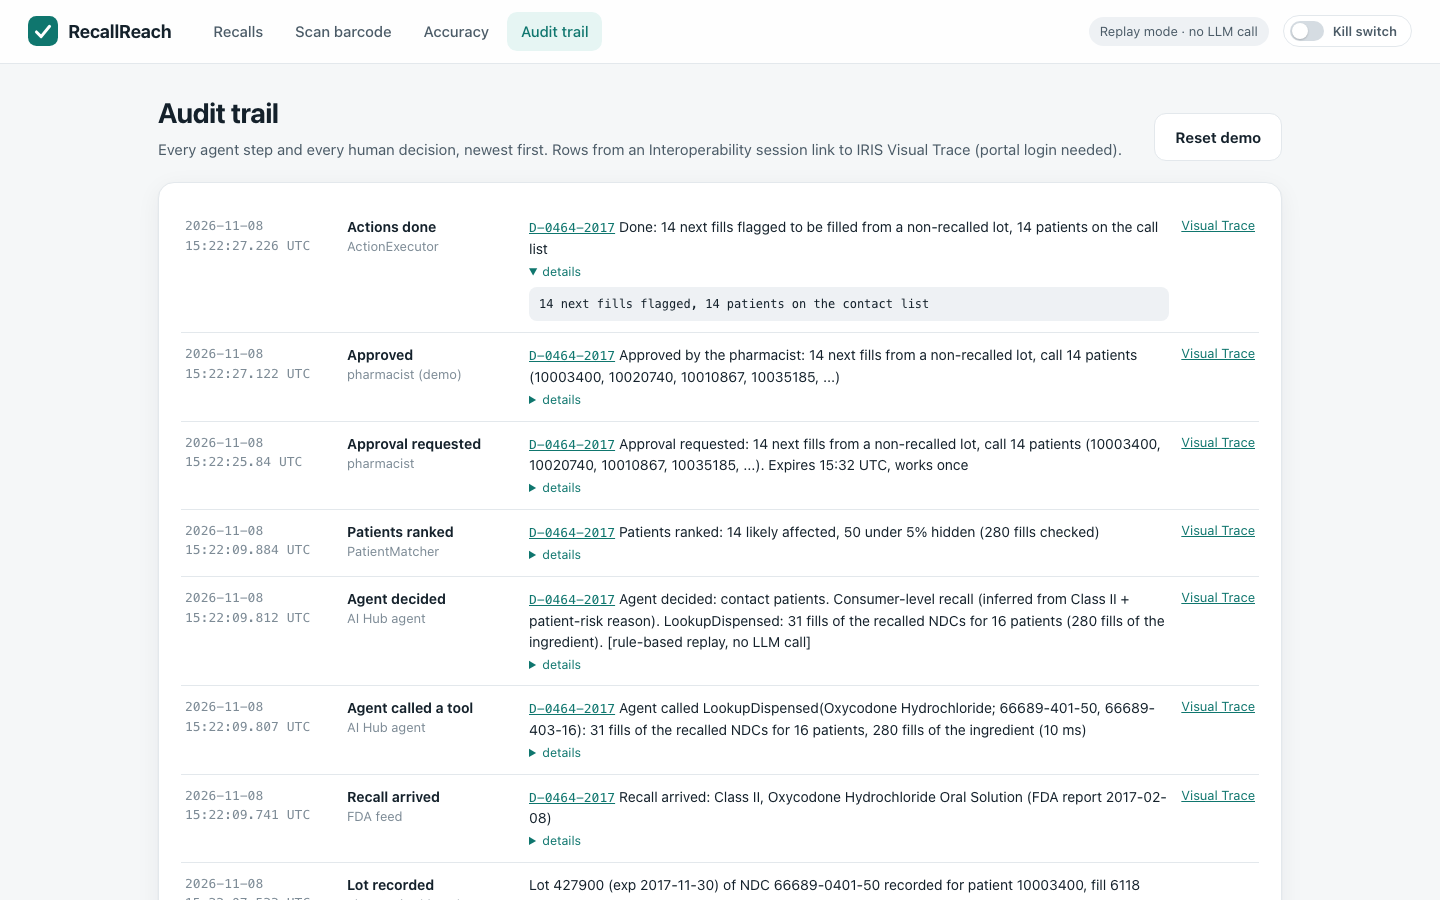
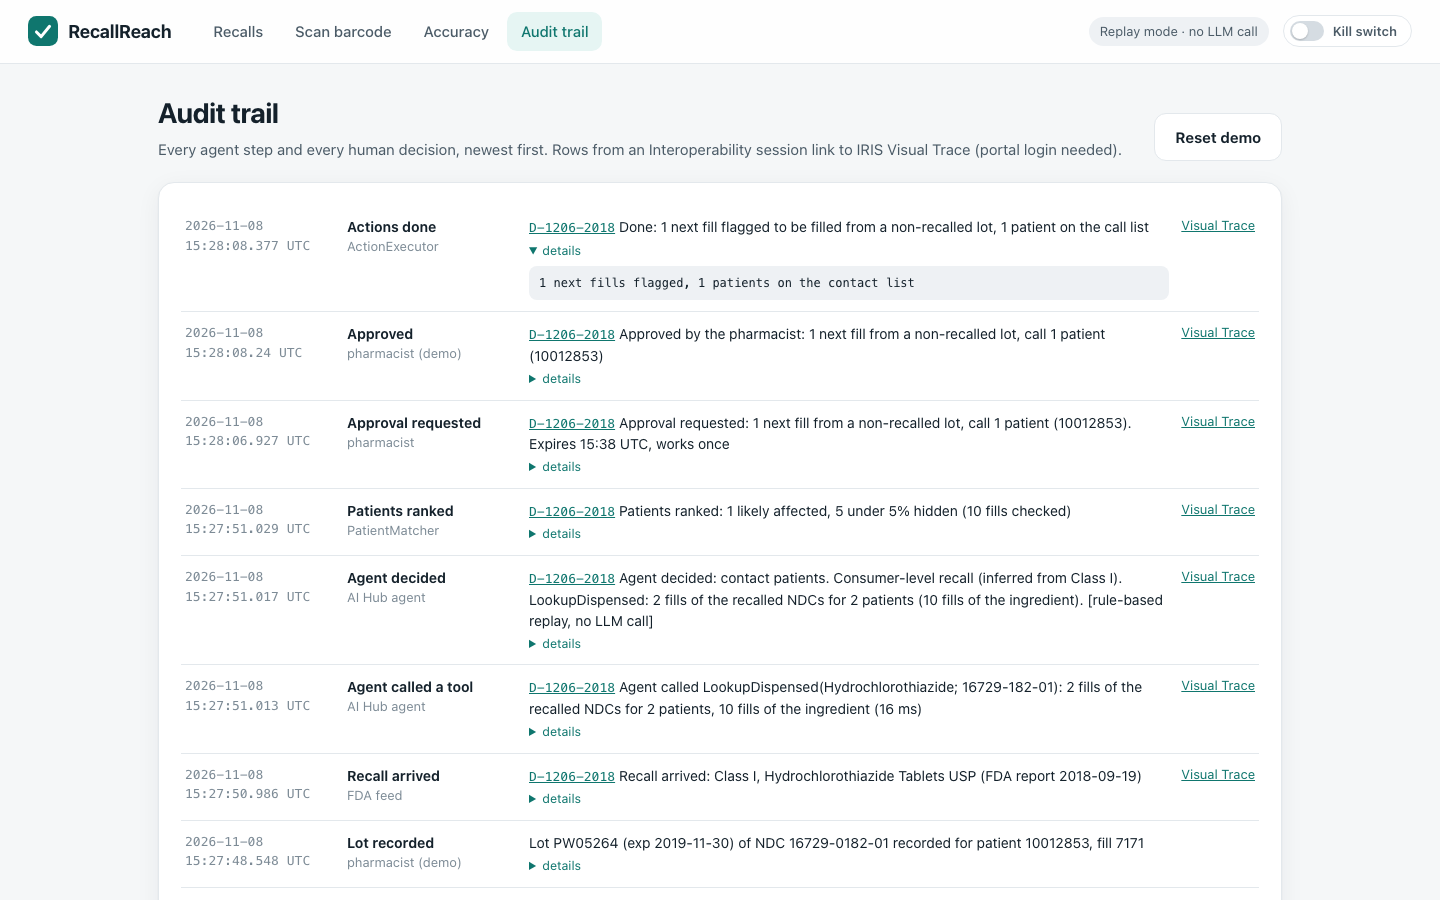
Demo recall: D-1206-2018, Class I mix-up of hydrochlorothiazide tablets
A daily blood-pressure tablet taken at home fits the demo story better than an oral solution.
Sample barcode: lot PW05264 for patient 10012853 (fill 7171). D-0464-2017 moves to history.
README, screenshots, GIF and spin check (20/20) redone.

diff --git a/web/app.js b/web/app.js
@@ -516,7 +516,7 @@
       '<div class="card"><div class="row wrap"><h2 style="margin:0">1. Scan or paste the barcode</h2><span class="spacer"></span>' +
       '<button class="btn ghost" id="cam" hidden>Use camera</button><button class="btn ghost" id="sample">Use a sample barcode</button></div>' +
       '<p class="muted small">Scanners type the barcode like a keyboard. Both "(01)...(17)...(10)...(21)..." and raw strings with the group separator work.</p>' +
-      '<textarea class="scanbox" id="raw" placeholder="(01)00366689401503(17)171130(10)427900(21)..."></textarea>' +
+      '<textarea class="scanbox" id="raw" placeholder="(01)00316729182010(17)191130(10)PW05264(21)..."></textarea>' +
       '<div class="muted small" id="samplenote"></div>' +
       '<video id="vid" playsinline muted style="display:none;width:100%;max-width:420px;border-radius:12px;margin-top:10px"></video>' +
       '<div class="row" style="margin-top:10px"><button class="btn" id="parse">Read barcode</button></div><div id="parsed"></div></div>' +

diff --git a/tools/prepare_data.py b/tools/prepare_data.py
@@ -17,12 +17,13 @@ HERE = os.path.dirname(os.path.abspath(__file__))
 sys.path.insert(0, os.path.join(HERE, "..", "python"))
 from recallreach_core import ndc as ndcmod  # noqa: E402
 
-# first recall of "Simulate new FDA recall": consumer level (contamination), so it goes the patient-contact way
-DEMO_RECALL = "D-0464-2017"
-# the barcode the demo pharmacist scanned when filling patient 10003400 (recalled lot 427900)
-DEMO_SAMPLE = {"ndc11": "66689040150", "lot": "427900", "expiry": "2017-11-30", "dispense_id": 6118, "subject_id": "10003400"}
+# first recall of "Simulate new FDA recall": Class I mix-up of a daily blood-pressure tablet, consumer level,
+# so it goes the patient-contact way
+DEMO_RECALL = "D-1206-2018"
+# the barcode the demo pharmacist scanned when filling patient 10012853 (recalled lot PW05264)
+DEMO_SAMPLE = {"ndc11": "16729018201", "lot": "PW05264", "expiry": "2019-11-30", "dispense_id": 7171, "subject_id": "10012853"}
 # already processed when the demo starts (shown in the inbox as history)
-HISTORY = ["D-0668-2016", "D-1467-2016", "D-0013-2018", "D-1226-2015", "D-1223-2015", "D-0793-2017"]
+HISTORY = ["D-0668-2016", "D-1467-2016", "D-0013-2018", "D-1226-2015", "D-1223-2015", "D-0793-2017", "D-0464-2017"]
 # delivered one by one by "Simulate new FDA recall" (first = the video recall)
 QUEUE = [DEMO_RECALL, "D-1695-2012", "D-0010-2016", "D-0123-2018", "D-1208-2015", "D-0648-2016"]
 

diff --git a/README.md b/README.md
@@ -44,7 +44,7 @@ Then:
 
 ```bash
 git clone https://github.com/jejuolledev/recallreach && cd recallreach
-docker compose up -d --build   # compiles, loads data, runs 6 recalls through the production (about 30 s to 3 min)
+docker compose up -d --build   # compiles, loads data, runs 7 recalls through the production (about 30 s to 3 min)
 # then open http://localhost:52795/recallreach/index.html in a browser
 ```
 
@@ -52,10 +52,10 @@ No login for the app. Management Portal: http://localhost:52795/csp/sys/UtilHome
 
 ## Try it
 
-1. **Scan** tab: *Use a sample barcode* -> *Read barcode* -> *Record lot here* on patient 10003400 (fill 6118). This plays the pharmacist who scanned the box when filling it. A barcode with a wrong check digit or no expiry is refused.
-2. **Recalls** tab: the inbox already holds six older recalls; five of them are shelf checks (retail level) and one is a patient-contact recall. *Simulate new FDA recall*: D-0464-2017 (oxycodone oral solution, water possibly contaminated with *Burkholderia cepacia*) arrives and the agent reads it.
-3. Open it. The decision box says **Patient contact**, consumer level (inferred: Class II with a contamination reason). The notice is on the left, the extracted fields on the right; click a field to see its evidence.
-4. *Find patients*: the list spins and stops on patient 10003400, now 100% with "Lot confirmed". Without the scan the top estimate is about 55%. Press *Why ...?* on any row for the formula and sources.
+1. **Scan** tab: *Use a sample barcode* -> *Read barcode* -> *Record lot here* on patient 10012853 (fill 7171). This plays the pharmacist who scanned the box when filling it. A barcode with a wrong check digit or no expiry is refused.
+2. **Recalls** tab: the inbox already holds seven older recalls; five are shelf checks (retail level) and two are patient-contact recalls. *Simulate new FDA recall*: D-1206-2018 arrives and the agent reads it. It is a Class I recall of a daily blood-pressure tablet: bottles labeled Hydrochlorothiazide 12.5 mg could contain only Spironolactone 25 mg.
+3. Open it. The decision box says **Patient contact**, consumer level (inferred: Class I). The notice is on the left, the extracted fields on the right; click a field to see its evidence.
+4. *Find patients*: the list spins and stops on patient 10012853 (female, 91), now 100% with "Lot confirmed". Without the scan she is still first, at about 10%. Press *Why ...?* on any row for the formula and sources.
 5. *Ask pharmacist approval* -> *Approve*. The button locks; *Try this link again* sends the same approval a second time and is refused (HTTP 409). An approval left for 10 minutes expires.
 6. Open D-1226-2015 (lisinopril, "did not adequately investigate customer complaints"): **Shelf check only**. No patient list, no calls, a task with lot 131928 to pull, and *Mark shelf check done*.
 7. Turn on the **Kill switch**: the agent, the feed, approvals and actions stop, and pending approvals are cancelled.
@@ -127,7 +127,8 @@ P(patient) = average over MIMIC's date shift of [ 1 - product(1 - P(fill)) ]
 
 ## Numbers you can check
 
-- Demo recall **D-0464-2017** (Class II, Oxycodone HCl Oral Solution 5 mg/5 mL, VistaPharm, 13 lots, nationwide). 64 MIMIC patients have a matching order; 14 shown, 50 under 5%. With lot 427900 scanned for patient 10003400: 100%, "Lot confirmed". Without a scan the top is patient 10020740, about 55%.
+- Demo recall **D-1206-2018** (Class I, Hydrochlorothiazide Tablets USP 12.5 mg, Accord Healthcare, NDC 16729-182-01, lot PW05264 exp 11/2019, 46,632 bottles, nationwide; reason: the bottle held Spironolactone 25 mg). 6 MIMIC patients have a hydrochlorothiazide order; 2 of them got the recalled NDC. 1 shown, 5 under 5%. With lot PW05264 scanned for patient 10012853: 100%, "Lot confirmed". Without a scan she is first at about 10% (0.12 before rounding).
+- D-0464-2017 (Class II, oxycodone oral solution, water possibly contaminated with *Burkholderia cepacia*): consumer level (inferred), 14 shown, 50 under 5%.
 - D-1226-2015 (Lisinopril 5 mg, Class II, complaint-handling problem): retail level (inferred), shelf check for lot 131928. The tool still reports 11 orders of the recalled NDC for 7 patients; nobody is called.
 - Depth in the 647 shipped recalls: stated in the text for 2; inferred for the rest.
 - 372 of 18,076 openFDA drug recalls share an NDC with the 100 MIMIC demo patients.
